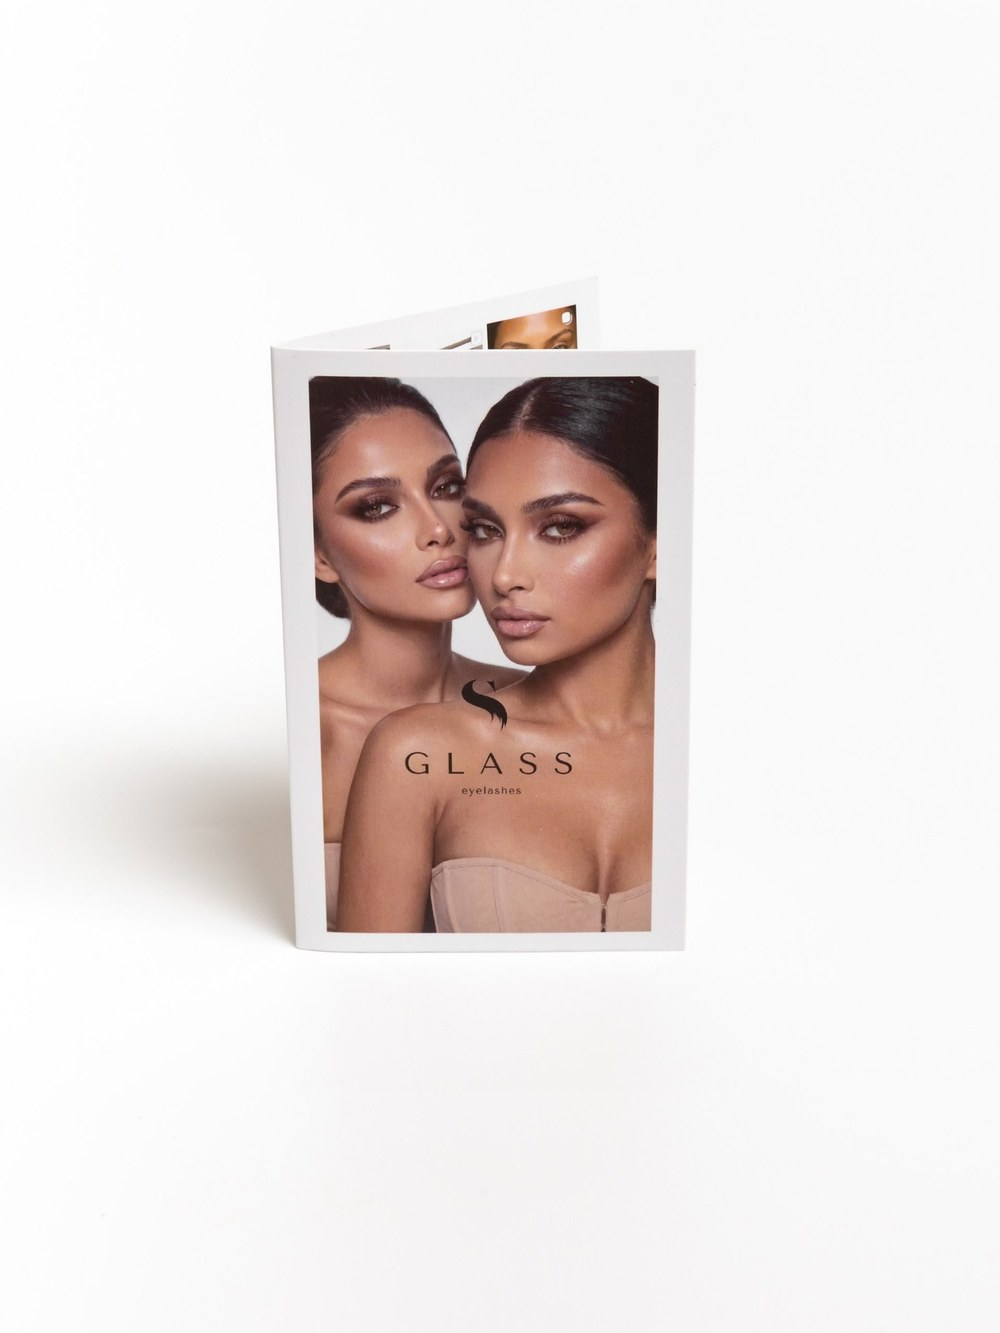
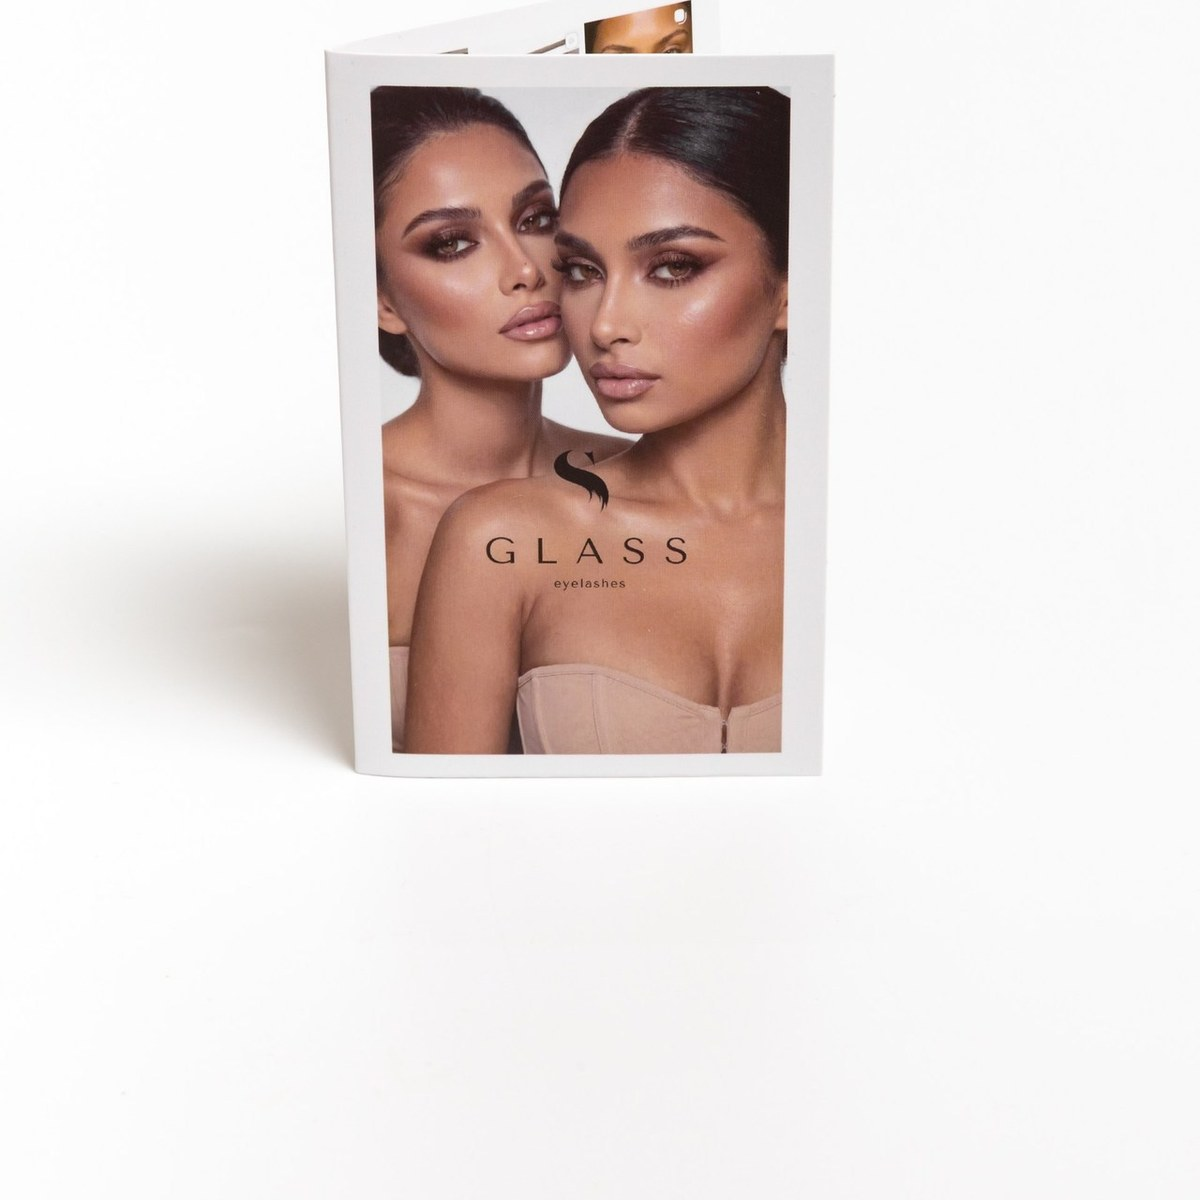
Служебные страницы: пустота снаружи блоков, а не внутри них
Три подхода к высоте кадра оказались тремя способами получить дыру. Обрезка
по чужой высоте съедала края предмета. Вписывание в чужую высоту оставляло
пустую рамку вокруг снимка. Растягивание колонки текста под кадр переносило
пустоту под кнопку — внутрь блока, где ей делать нечего.

Причина у всех трёх одна: высоту кадра диктовало что-то постороннее. Теперь
её диктует сам кадр, и пропорция в разметке совпадает с пропорцией файла —
ни обрезки, ни полей внутри рамки.

Пропорция у каждой страницы своя и выбрана по двум вещам разом: по форме
предмета и по длине текста рядом. Коробка лежит — кадр лежачий, 4:3. Буклет
стоит — квадрат. Коробочка «подарок» совсем плоская — полоса 16:9. Съёмка с
моделями — 3:4. Разница высот между колонками вышла от десяти до двухсот
пикселей: это меньше отступа раздела, и читается она воздухом.

Колонка текста больше не тянется под кадр — её высота это её содержимое.
Пустота остаётся снаружи, между колонкой и краем раздела.

Первая строка вернулась в колонку текста. Растянутая на все двенадцать, она
оставляла справа от себя полосу пустоты во всю ширину сетки: левый край
страницы должен идти одной мерой сверху донизу. Исключение одно — доставка,
где строка отвечает в одно предложение и стоит над таблицей, адресованной
всей ширине.

Changed region(s): [[0.093, 0.0, 0.713, 0.7092]]

diff --git a/app/[lang]/info/[slug]/page.tsx b/app/[lang]/info/[slug]/page.tsx
@@ -42,13 +42,21 @@ const CTA: Record<InfoSlug, { href: (l: Locale) => string; label: (t: Copy) => s
   returns: { href: (l) => `/${l}/account/returns`, label: (t) => t.account.returns.send },
 }
 
-/** Кадр страницы. Съёмка бренда от 15 августа, кроме «о бренде» — там модели. */
-const ART: Record<InfoSlug, { src: string; w: number; h: number }> = {
-  about: { src: '/media/about.jpg', w: 1040, h: 1849 },
-  contacts: { src: '/media/info-contacts.jpg', w: 1000, h: 1333 },
-  delivery: { src: '/media/info-delivery.jpg', w: 1000, h: 1333 },
-  returns: { src: '/media/info-returns.jpg', w: 1000, h: 1333 },
-  privacy: { src: '/media/info-privacy.jpg', w: 1000, h: 1333 },
+/**
+ * Кадр страницы. Съёмка бренда от 15 августа, кроме «о бренде» — там модели.
+ *
+ * Пропорция у каждого своя и выбрана по двум вещам разом: по форме самого
+ * предмета и по длине текста рядом. Коробка лежит — кадр лежачий; буклет
+ * стоит — квадрат; коробочка «подарок» совсем плоская — широкая полоса.
+ * Разница высот между колонками получается в пределах полутора сотен
+ * пикселей, и эта разница читается воздухом, а не сбоем.
+ */
+const ART: Record<InfoSlug, { src: string; w: number; h: number; box: string }> = {
+  about: { src: '/media/about.jpg', w: 1000, h: 1333, box: 'aspect-[3/4]' },
+  contacts: { src: '/media/info-contacts.jpg', w: 1200, h: 1200, box: 'aspect-square' },
+  delivery: { src: '/media/info-delivery.jpg', w: 1333, h: 1000, box: 'aspect-[4/3]' },
+  returns: { src: '/media/info-returns.jpg', w: 1333, h: 1000, box: 'aspect-[4/3]' },
+  privacy: { src: '/media/info-privacy.jpg', w: 1600, h: 900, box: 'aspect-[16/9]' },
 }
 
 export function generateStaticParams() {
@@ -119,30 +127,30 @@ export default async function InfoPage({
             <div className="mt-8 grid gap-10 lg:grid-cols-12 lg:gap-[var(--col-gap)]">
               <h1 className="t-h2 lg:col-span-12">{page.title}</h1>
 
-              {/* Первая строка идёт во всю ширину под заголовком: это не абзац
-                  текста, а подзаголовок, и колонка ему не нужна. Предел меры
-                  шире, чем у основного текста, — одна строка в 48em читается
-                  без усилия, десять уже нет. */}
-              <p className="t-lead max-w-[48em] lg:col-span-12">{page.lead}</p>
-
-              {/* Таблица — во всю ширину сетки, а не в колонку текста. В шести
-                  колонках «на оформлении, по стране назначения» ломалось на
-                  три строки, и три способа доставки читались как двенадцать
-                  строк вместо трёх. Двенадцать колонок дают каждой ячейке
-                  место в одну строку.
-
-                  Стоит она сразу под заголовком: эту страницу открывают с
-                  вопросом «как приедет и почём», а не «почему устроено так» —
-                  сперва ответ, следом причины. */}
+              {/* На доставке первая строка и таблица идут перед колонками:
+                  строка отвечает в одно предложение, таблица — по существу, и
+                  обе адресованы всем, а не левой половине страницы. На
+                  остальных четырёх строке хватает колонки текста, и растянутая
+                  на всю ширину она оставляла бы справа полосу пустоты без
+                  причины. */}
               {slug === 'delivery' ? (
-                <div className="lg:col-span-12">
-                  <DeliveryTable lang={lang} />
-                </div>
+                <>
+                  <p className="t-lead max-w-[36em] lg:col-span-12">{page.lead}</p>
+                  <div className="lg:col-span-12">
+                    <DeliveryTable lang={lang} />
+                  </div>
+                </>
               ) : null}
 
-              <div className="max-w-[36em] lg:col-span-6">
+              {/* Колонка не тянется под кадр: её высота — это её содержимое.
+                  Растянутая, она оставляла пустоту внутри себя, под кнопкой;
+                  теперь пустота остаётся снаружи, между колонкой и краем
+                  раздела, и читается воздухом, а не дырой в блоке. */}
+              <div className="max-w-[36em] lg:col-span-6 lg:self-start">
+                {slug === 'delivery' ? null : <p className="t-lead">{page.lead}</p>}
+
                 {'body' in page ? (
-                  <div className="flex flex-col gap-5">
+                  <div className={`flex flex-col gap-5 ${slug === 'delivery' ? '' : 'mt-8'}`}>
                     {page.body.map((par) => (
                       <p key={par} className="t-lead t-muted">
                         {par}
@@ -177,7 +185,9 @@ export default async function InfoPage({
                   когда его просто растянули — на столько же растянулась и
                   колонка текста, оставив пустоту под кнопкой. Нижний предел
                   держит кадр от схлопывания там, где текста совсем мало. */}
-              <div className="tile tile-fill tile-zoom rise hidden min-h-[18rem] lg:col-span-5 lg:col-start-8 lg:block">
+              <div
+                className={`tile tile-fill tile-zoom rise hidden ${ART[slug].box} lg:col-span-5 lg:col-start-8 lg:block`}
+              >
                 <Image
                   src={ART[slug].src}
                   alt=""

diff --git a/app/globals.css b/app/globals.css
@@ -1755,30 +1755,25 @@ textarea.inp {
   }
 }
 
-/* Кадр, у которого высота не своя, а от соседа по строке сетки.
-   Пока изображение стоит в потоке, высоту задаёт оно само — от собственных
-   пропорций, — и растягивает строку, а вместе с ней и колонку текста: под
-   кнопкой оставалось до четырёхсот пикселей пустоты. Абсолютное положение
-   вынимает изображение из потока, и строку теперь меряет текст.            */
+/* Кадр служебной страницы.
+
+   Высоту ему больше не диктует ни своя обрезка, ни соседняя колонка. Обе
+   попытки читались неправильно: обрезанный по чужой высоте кадр терял края
+   предмета, вписанный — повисал в пустой рамке, а колонка текста
+   растягивалась под него и оставляла дыру под кнопкой.
+
+   Теперь пропорция задана в самой разметке и совпадает с пропорцией файла:
+   пустоты внутри рамки нет вовсе, обрезки тоже. Разной высоты колонок это не
+   отменяет — она и есть та пустота, которой полагается быть между двумя
+   вещами, а не внутри одной.
+
+   Подложки нет: поля вокруг снимка — страница, а не серая плашка в цвет
+   плитки товара.                                                           */
 .tile-fill {
-  height: 100%;
-  /* Подложки нет: кадр вписывается целиком, и поля вокруг него должны быть
-     страницей, а не серой плашкой в цвет плитки товара. */
   background: transparent;
 }
 
 .tile-fill > img {
-  position: absolute;
-  inset: 0;
-  /* Вписываем, а не обрезаем. У плиток товара обрезка уместна — там кадр
-     квадратный и снят под квадрат. Здесь предмет один и снят целиком, и
-     срезанный край коробки читается браком печати, а не приёмом. */
   object-fit: contain;
 }
 
-/* Наведение не увеличивает вписанный кадр: увеличенный, он вылезает за
-   пределы своего места, и его обрезает контейнер — ровно то, чего мы здесь
-   избегаем. */
-.tile-fill.tile-zoom:hover > img {
-  transform: none;
-}
